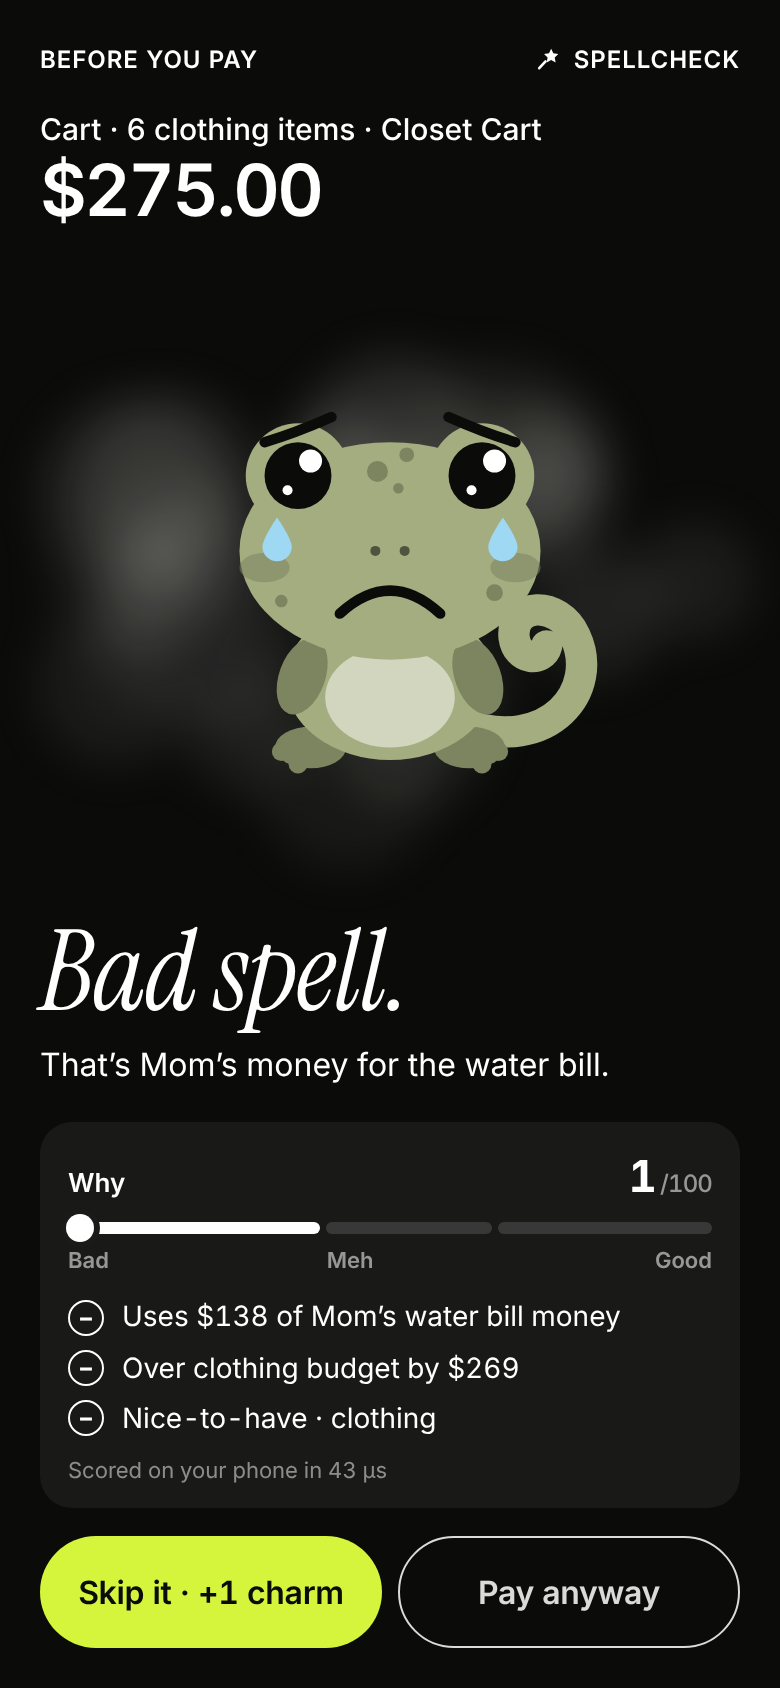
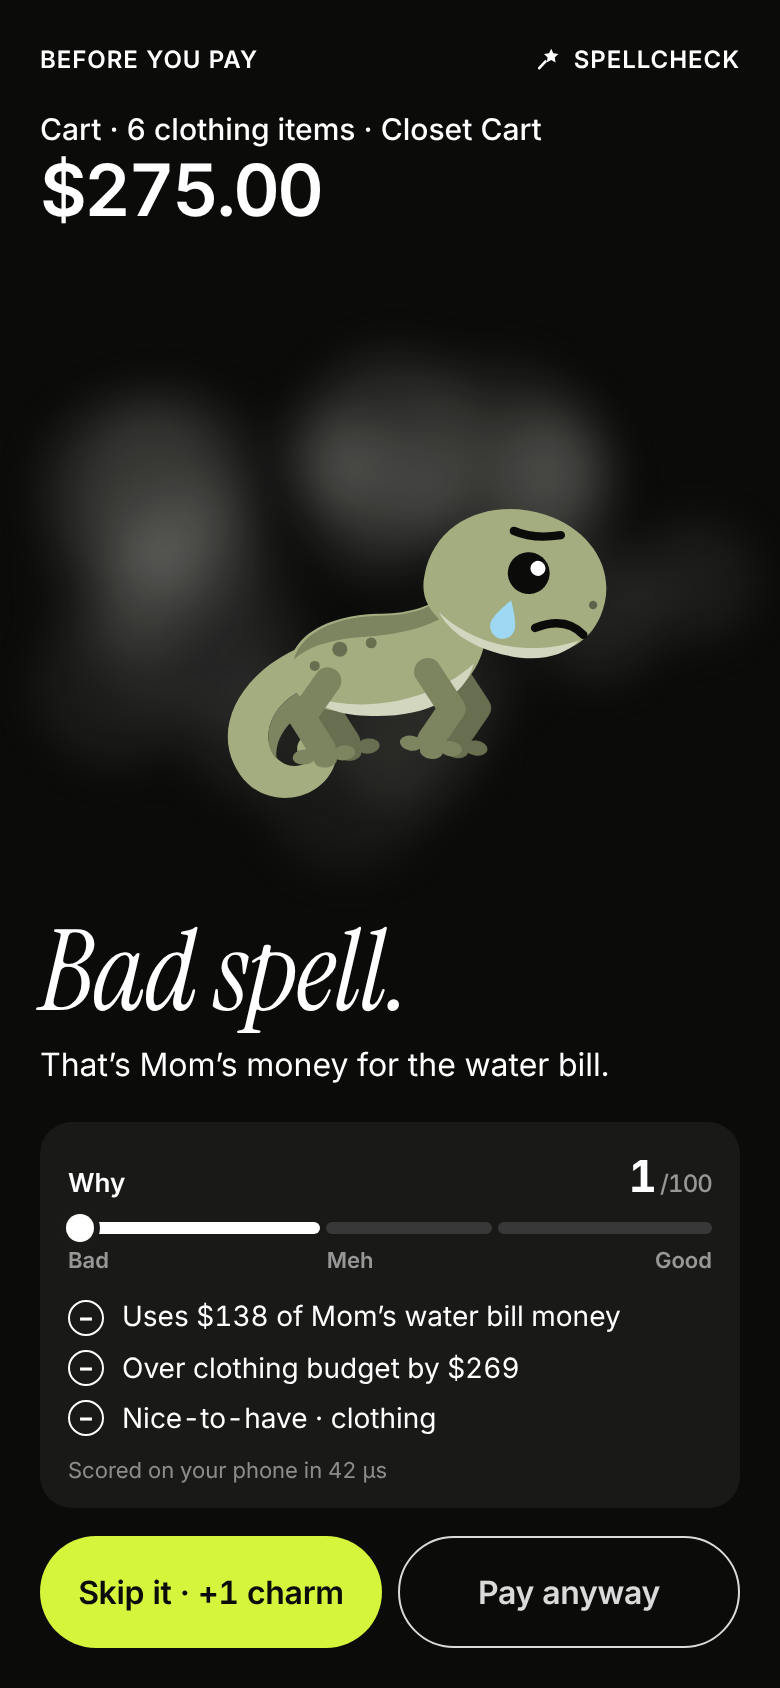
Spellbound: redraw Remy in a flat, side-on style
Remy is now one clean side-on silhouette built from flat planes of a single
lime (base, shade, deep shade, light) with a tiny face. Poses are baked into
SVG transforms per mood: standing (happy, meh), a leap with a fading
three-band streak (joy) and a wilted slump with a dropped head (sad, cry).
Adds mockups/remy-moods.png and updates the board, screens and the Figma
Make prompt.

Claude-Session: https://claude.ai/code/session_01PqrfActJswGG3E9NfEGjAG

Changed region(s): [[0.2769, 0.2464, 0.8, 0.4929]]

diff --git a/spellbound/index.html b/spellbound/index.html
@@ -27,6 +27,7 @@
   --gk: #C8EE2A;
   --gk-dark: #9DC40F;
   --gk-belly: #EAFBA4;
+  --gk-deep: #86A80C;
   --r: 16px;
   --sat: env(safe-area-inset-top, 0px);
   --sab: env(safe-area-inset-bottom, 0px);
@@ -75,23 +76,16 @@ input { font: inherit; }
 .bar { height: 6px; border-radius: 99px; background: rgba(255,255,255,0.12); margin-top: 8px; overflow: hidden; }
 .bar > i { display: block; height: 100%; width: 50%; background: var(--lime); border-radius: 99px; transition: width .6s cubic-bezier(.2,.8,.2,1); }
 
-/* gecko moods */
-.gecko .part { transition: opacity .2s; }
-.gecko [data-show] { opacity: 0; }
-.gecko[data-mood="happy"] [data-show~="happy"],
-.gecko[data-mood="joy"] [data-show~="joy"],
-.gecko[data-mood="meh"] [data-show~="meh"],
-.gecko[data-mood="sad"] [data-show~="sad"],
-.gecko[data-mood="cry"] [data-show~="cry"] { opacity: 1; }
+/* gecko moods: poses are drawn by geckoParts(); CSS only adds motion */
 .gecko .bodyg { transform-origin: 110px 200px; }
 .gecko[data-mood="happy"] .bodyg { animation: breathe 3.2s ease-in-out infinite; }
 .gecko[data-mood="joy"] .bodyg { animation: hop .55s cubic-bezier(.3,.7,.4,1) 3; }
 .gecko[data-mood="meh"] .bodyg { animation: sway 3s ease-in-out infinite; }
 .gecko[data-mood="sad"] .bodyg, .gecko[data-mood="cry"] .bodyg { animation: droop 1.4s ease-out forwards; }
 .gecko[data-mood="cry"] .bodyg { animation: droop 1.4s ease-out forwards, shiver .12s linear 6; }
-.gecko .tail { transform-origin: 150px 176px; animation: wag 2.4s ease-in-out infinite; }
+.gecko .tail { transform-origin: 74px 150px; animation: wag 2.4s ease-in-out infinite; }
 .gecko[data-mood="joy"] .tail { animation-duration: .45s; }
-.gecko[data-mood="sad"] .tail, .gecko[data-mood="cry"] .tail { animation: none; transform: rotate(14deg); }
+.gecko[data-mood="sad"] .tail, .gecko[data-mood="cry"] .tail { animation: none; }
 .gecko .blink { transform-origin: center; transform-box: fill-box; animation: blink 4.6s infinite; }
 .gecko .tear { animation: tear 1.3s ease-in infinite; }
 @keyframes breathe { 0%,100% { transform: scale(1,1); } 50% { transform: scale(1.02,.98); } }
@@ -405,60 +399,67 @@ input { font: inherit; }
 'use strict';
 
 /* ---------- gecko ---------- */
-const GECKO = `
-<svg class="gecko" viewBox="0 0 220 220" data-mood="happy" aria-hidden="true">
-  <g class="bodyg">
-    <path class="tail" d="M146 182 C190 186 206 150 188 128 C176 113 154 120 160 136 C164 146 176 144 176 136" fill="none" stroke="var(--gk)" stroke-width="15" stroke-linecap="round"/>
-    <ellipse cx="72" cy="192" rx="17" ry="10" fill="var(--gk-dark)"/>
-    <ellipse cx="148" cy="192" rx="17" ry="10" fill="var(--gk-dark)"/>
-    <circle cx="58" cy="194" r="4.5" fill="var(--gk-dark)"/><circle cx="66" cy="200" r="4.5" fill="var(--gk-dark)"/>
-    <circle cx="162" cy="194" r="4.5" fill="var(--gk-dark)"/><circle cx="154" cy="200" r="4.5" fill="var(--gk-dark)"/>
-    <ellipse cx="110" cy="160" rx="50" ry="38" fill="var(--gk)"/>
-    <ellipse cx="110" cy="168" rx="31" ry="24" fill="var(--gk-belly)"/>
-    <ellipse cx="68" cy="158" rx="11" ry="19" transform="rotate(20 68 158)" fill="var(--gk-dark)"/>
-    <ellipse cx="152" cy="158" rx="11" ry="19" transform="rotate(-20 152 158)" fill="var(--gk-dark)"/>
-    <circle cx="66" cy="62" r="25" fill="var(--gk)"/>
-    <circle cx="154" cy="62" r="25" fill="var(--gk)"/>
-    <ellipse cx="110" cy="98" rx="72" ry="52" fill="var(--gk)"/>
-    <circle cx="104" cy="60" r="5" fill="var(--gk-dark)"/><circle cx="118" cy="52" r="3.5" fill="var(--gk-dark)"/><circle cx="114" cy="68" r="2.5" fill="var(--gk-dark)"/>
-    <circle cx="160" cy="118" r="4" fill="var(--gk-dark)"/><circle cx="58" cy="122" r="3" fill="var(--gk-dark)"/>
-    <circle cx="103" cy="98" r="2.4" fill="#0B0B0A" opacity=".55"/><circle cx="117" cy="98" r="2.4" fill="#0B0B0A" opacity=".55"/>
-    <ellipse cx="50" cy="106" rx="12" ry="7" fill="var(--gk-dark)" opacity=".55"/>
-    <ellipse cx="170" cy="106" rx="12" ry="7" fill="var(--gk-dark)" opacity=".55"/>
-
-    <!-- open eyes -->
-    <g class="part" data-show="happy meh sad cry">
-      <g class="blink"><circle cx="66" cy="62" r="16" fill="#0B0B0A"/><circle cx="72" cy="55" r="5.5" fill="#fff"/><circle cx="61" cy="69" r="2.4" fill="#fff"/></g>
-      <g class="blink"><circle cx="154" cy="62" r="16" fill="#0B0B0A"/><circle cx="160" cy="55" r="5.5" fill="#fff"/><circle cx="149" cy="69" r="2.4" fill="#fff"/></g>
+/* ---------- Remy ---------- */
+// Remy, side-on, in flat planes of one colour (base, shade, deep shade, light belly) with no outlines.
+// Poses are baked into transform attributes so they survive SVG export; CSS only animates outer groups.
+function geckoParts(m) {
+  const sad = m === 'sad' || m === 'cry', joy = m === 'joy';
+  const rig = joy ? 'translate(6 -26) rotate(-24 110 140)' : sad ? 'translate(0 8)' : '';
+  const head = joy ? 'rotate(-6 136 118)' : sad ? 'rotate(18 136 118)' : m === 'meh' ? 'translate(-3 9) rotate(5 136 118)' : 'translate(-3 9)';
+  const tail = joy ? 'rotate(26 70 148)' : sad ? 'rotate(-26 70 148)' : '';
+  const legs = joy ? { fb: 'rotate(58 82 150)', ff: 'rotate(-62 130 148)' } : sad ? { fb: 'rotate(-6 82 150)', ff: 'rotate(8 130 148)' } : { fb: '', ff: '' };
+  // a bent gecko leg with three splayed toes; dir 1 = elbow forward, -1 = knee back
+  const leg = (x, y, dir, col) => {
+    const ex = x + 14 * dir, fx = x + 6 * dir;
+    return `<path d="M${x} ${y} L${ex} ${y + 16} L${fx} ${y + 32}" fill="none" stroke="var(${col})" stroke-width="13" stroke-linecap="round" stroke-linejoin="round"/>
+      <g fill="var(${col})"><ellipse cx="${fx - 9}" cy="${y + 35}" rx="5.5" ry="3.6"/><ellipse cx="${fx + 1}" cy="${y + 37.5}" rx="5.5" ry="3.6"/><ellipse cx="${fx + 10}" cy="${y + 35}" rx="5.5" ry="3.6"/></g>`;
+  };
+  const eye = joy
+    ? `<path d="M160 90 Q169 79 178 90" fill="none" stroke="#0B0B0A" stroke-width="5" stroke-linecap="round"/>`
+    : `<g class="blink"><circle cx="169" cy="89" r="10" fill="#0B0B0A"/><circle cx="172.5" cy="85.5" r="3.6" fill="#fff"/></g>`
+      + (m === 'meh' ? `<path d="M157 89 A12 12 0 0 1 181 89 Z" fill="var(--gk)"/><path d="M157.5 89 H180.5" stroke="#0B0B0A" stroke-width="4" stroke-linecap="round"/>` : '')
+      + (sad ? `<path d="M156 72 Q166 73 178 67" fill="none" stroke="#0B0B0A" stroke-width="4" stroke-linecap="round"/>` : '');
+  const mouth = joy
+    ? `<path d="M174 106 Q192 114 204 100 Q198 124 178 114 Z" fill="#0B0B0A"/><path d="M183 114 Q192 113 197 108 Q194 118 186 117 Z" fill="#F2A7A0"/>`
+    : m === 'happy' ? `<path d="M177 108 Q192 113 203 101" fill="none" stroke="#0B0B0A" stroke-width="4" stroke-linecap="round"/>`
+    : m === 'meh' ? `<path d="M180 109 L202 106" fill="none" stroke="#0B0B0A" stroke-width="4" stroke-linecap="round"/>`
+    : `<path d="M180 113 Q192 103 203 109" fill="none" stroke="#0B0B0A" stroke-width="4" stroke-linecap="round"/>`;
+  const tear = m === 'cry' ? `<path class="tear" d="M165 104 C165 104 159 113 159 117 A6 6 0 0 0 171 117 C171 113 165 104 165 104 Z" fill="#9FD8F2"/>` : '';
+  let trail = '';
+  if (joy) {
+    // three flat bands along the leap, fading out behind
+    const d = [-1, 0], n = [0, 1], c = [96, 145], L = 150, w = 12;
+    const cols = ['#FFFFFF', 'var(--gk-dark)', '#0B0B0A'];
+    trail = cols.map((col, i) => {
+      const k = (i - 1) * w, p = (a, b) => `${(c[0] + n[0] * (k + a) + d[0] * b).toFixed(1)} ${(c[1] + n[1] * (k + a) + d[1] * b).toFixed(1)}`;
+      return `<linearGradient id="tr${i}" gradientUnits="userSpaceOnUse" x1="${c[0]}" y1="${c[1]}" x2="${(c[0] + d[0] * L).toFixed(0)}" y2="${(c[1] + d[1] * L).toFixed(0)}"><stop offset="0" stop-color="${col}" stop-opacity="${i === 2 ? .8 : 1}"/><stop offset="1" stop-color="${col}" stop-opacity="0"/></linearGradient>
+        <path d="M${p(-w / 2, 0)} L${p(w / 2, 0)} L${p(w / 2, L)} L${p(-w / 2, L)} Z" fill="url(#tr${i})"/>`;
+    }).join('');
+  }
+  return `
+  <g class="bodyg"><g transform="${rig}">${trail}
+    <g transform="${tail}"><g class="tail">
+      <path d="M74 136 C42 134 16 152 20 178 C23 198 46 206 60 196 C70 189 68 175 57 175 C49 175 47 184 52 187 C41 188 36 177 40 168 C47 154 66 152 80 158 Z" fill="var(--gk)"/>
+      <path d="M80 158 C66 152 47 154 40 168 C38 172 38 176 39 179 C44 166 60 162 78 166 Z" fill="var(--gk-dark)"/>
+    </g></g>
+    <g transform="${legs.fb}">${leg(92, 150, -1, '--gk-deep')}</g>
+    <g transform="${legs.ff}">${leg(140, 146, 1, '--gk-deep')}</g>
+    <path d="M62 150 C60 130 82 120 106 120 C120 120 130 116 138 110 L156 126 C156 152 134 168 104 168 C80 168 64 164 62 150 Z" fill="var(--gk)"/>
+    <path d="M64 142 C68 128 86 121 106 121 C120 121 130 117 138 111 L144 116 C132 126 116 130 98 131 C82 132 70 136 64 142 Z" fill="var(--gk-dark)"/>
+    <path d="M74 160 C94 167 128 164 150 144 C146 160 128 169 104 169 C88 169 78 166 74 160 Z" fill="var(--gk-belly)"/>
+    <circle cx="86" cy="137" r="3.6" fill="var(--gk-deep)"/><circle cx="101" cy="134" r="2.6" fill="var(--gk-deep)"/><circle cx="74" cy="145" r="2.4" fill="var(--gk-deep)"/>
+    <g transform="${legs.fb}">${leg(80, 152, -1, '--gk-dark')}</g>
+    <g transform="${legs.ff}">${leg(128, 148, 1, '--gk-dark')}</g>
+    <g transform="${head}">
+      <path d="M122 106 C118 78 142 60 168 60 C192 60 210 76 208 98 C206 118 188 128 164 128 C140 128 124 122 122 106 Z" fill="var(--gk)"/>
+      <path d="M134 120 C150 128 178 130 202 112 C196 124 182 130 164 130 C150 130 140 126 134 120 Z" fill="var(--gk-belly)"/>
+      <circle cx="169" cy="89" r="15" fill="var(--gk)"/>
+      ${eye}${mouth}${tear}
+      <circle cx="203" cy="94" r="2" fill="#0B0B0A" opacity=".45"/>
     </g>
-    <!-- joy eyes ^ ^ -->
-    <g class="part" data-show="joy" fill="none" stroke="#0B0B0A" stroke-width="6" stroke-linecap="round">
-      <path d="M52 68 Q66 48 80 68"/><path d="M140 68 Q154 48 168 68"/>
-    </g>
-    <!-- half lids for meh -->
-    <g class="part" data-show="meh">
-      <path d="M48 62 A18 18 0 0 1 84 62 Z" fill="var(--gk)"/><path d="M136 62 A18 18 0 0 1 172 62 Z" fill="var(--gk)"/>
-      <path d="M48 62 H84 M136 62 H172" stroke="#0B0B0A" stroke-width="4" stroke-linecap="round"/>
-    </g>
-    <!-- worried brows -->
-    <g class="part" data-show="sad cry" fill="none" stroke="#0B0B0A" stroke-width="5" stroke-linecap="round">
-      <path d="M50 46 Q64 42 82 34"/><path d="M170 46 Q156 42 138 34"/>
-    </g>
-    <!-- mouths -->
-    <path class="part" data-show="happy" d="M84 112 Q110 132 136 112" fill="none" stroke="#0B0B0A" stroke-width="5" stroke-linecap="round"/>
-    <g class="part" data-show="joy">
-      <path d="M80 108 Q110 150 140 108 Z" fill="#0B0B0A" stroke="#0B0B0A" stroke-width="4" stroke-linejoin="round"/>
-      <path d="M98 128 Q110 118 122 128 Q118 138 110 138 Q102 138 98 128 Z" fill="#F2A7A0"/>
-    </g>
-    <path class="part" data-show="meh" d="M92 120 Q104 116 128 122" fill="none" stroke="#0B0B0A" stroke-width="5" stroke-linecap="round"/>
-    <path class="part" data-show="sad cry" d="M86 128 Q110 106 134 128" fill="none" stroke="#0B0B0A" stroke-width="5" stroke-linecap="round"/>
-    <!-- tears -->
-    <g class="part" data-show="cry">
-      <path class="tear" d="M56 82 C56 82 49 92 49 96 A7 7 0 0 0 63 96 C63 92 56 82 56 82 Z" fill="#9FD8F2"/>
-      <path class="tear" style="animation-delay:.6s" d="M164 82 C164 82 157 92 157 96 A7 7 0 0 0 171 96 C171 92 164 82 164 82 Z" fill="#9FD8F2"/>
-    </g>
-  </g>
-</svg>`;
+  </g></g>`;
+}
+const GECKO = `<svg class="gecko" viewBox="0 0 220 220" data-mood="" aria-hidden="true"></svg>`;
 
 const petSlot = document.getElementById('petSlot');
 petSlot.innerHTML = GECKO;
@@ -779,8 +780,9 @@ function geckoColour(v) {
   root.setProperty('--gk', mix([200, 238, 42], [158, 168, 118], t));
   root.setProperty('--gk-dark', mix([157, 196, 15], [120, 128, 92], t));
   root.setProperty('--gk-belly', mix([234, 251, 164], [206, 210, 186], t));
+  root.setProperty('--gk-deep', mix([134, 168, 12], [104, 111, 80], t));
 }
-function setMood(el, m) { el.dataset.mood = ''; void el.getBoundingClientRect(); el.dataset.mood = m; }
+function setMood(el, m) { el.innerHTML = geckoParts(m); el.dataset.mood = ''; void el.getBoundingClientRect(); el.dataset.mood = m; }
 
 let showAllBudgets = false;
 function render() {
@@ -976,7 +978,7 @@ function verdict(p, m) {
     <div class="v-top"><span>${before ? 'Before you pay' : 'Just paid'}</span><span><svg width="13" height="13" viewBox="0 0 24 24" fill="none"><path d="M14 2.5l2 4.2 4.6.7-3.3 3.2.8 4.6-4.1-2.2-4.1 2.2.8-4.6L7.4 7.4l4.6-.7z" fill="currentColor"/><path d="M8.8 14.2L3 20.5" stroke="currentColor" stroke-width="2.4" stroke-linecap="round"/></svg>Spellcheck</span></div>
     <div class="v-merchant">${p.item} · ${p.merchant}</div>
     <div class="v-amount">${money(p.amt)}</div>
-    <div class="v-pet" id="vPet" style="${v === 'bad' ? '--gk:#A3AD80;--gk-dark:#7C8460;--gk-belly:#D3D6BF' : ''}">${GECKO}</div>
+    <div class="v-pet" id="vPet" style="${v === 'bad' ? '--gk:#A3AD80;--gk-dark:#7C8460;--gk-deep:#686F50;--gk-belly:#D3D6BF' : ''}">${GECKO}</div>
     <div class="v-head serif"><i>${r.headline}</i></div>
     <div class="v-msg">${r.msg}</div>
     <div class="v-why">

diff --git a/spellbound/FIGMA.md b/spellbound/FIGMA.md
@@ -81,7 +81,7 @@ Build a mobile app prototype (iPhone, 390×844) called "Spellbound", a Ramp Fami
 
 STYLE: minimal fintech, in the style of Ramp. Off-white background #F4F3EE, white cards #FFFFFF with 1px hairlines #E4E2DA and 16px radius, near-black #0B0B0A text and primary buttons, ONE accent colour: lime #D4F53C. Inter for all UI (big numbers 600 weight, tight tracking, tabular figures); Instrument Serif Italic only for the verdict headline. Pill buttons 56px tall. Flat fills, no shadows, no gradients. Lots of white space. Whimsical but restrained.
 
-MASCOT: "Remy", a cute, round, flat-vector gecko: lime body #C8EE2A, darker lime spots and limbs #9DC40F, pale belly #EAFBA4, big black glossy eyes on top of the head, curled tail. Five moods: happy (smile), joy (^ ^ eyes, open grin, hopping), meh (half-closed eyes, flat mouth), sad (worried brows, frown, colour fades to dusty olive #A3AD80), cry (sad + blue tears).
+MASCOT: "Remy", a gecko drawn like Asana's celebration creatures: seen side-on facing right, one clean silhouette with NO outlines, built from flat planes of a single lime: base #C8EE2A, shade #9DC40F (the back and the near legs), deep shade #86A80C (the far legs, spots), light #EAFBA4 (belly and jaw). Big rounded head on a short rising neck, a long body, a tail that curls into a spiral, bent legs with three soft splayed toes, a few small spots on the back. The face is tiny and simple: one round black eye with a white glint, a single-line mouth. Moods: happy (standing, gentle smile), joy (leaping up and to the right, legs stretched, ^-shaped closed eye, open grin, with a three-band motion streak behind him in white, shade lime and ink that fades out — like the Asana trails), meh (standing, head tipped down slightly, half-closed eye, flat mouth), sad (head dropped, tail lowered, worried brow above the eye, frown, colours fade to dusty olive #A3AD80 / #7C8460 / #D3D6BF), cry (sad + one blue tear).
 
 SCREENS:
 1. Home: header "Spellbound" with a small star-wand logo and "Ramp Family". Black rounded card (24px radius) with Remy in the middle, name "Remy" in serif, "Lvl 3" lime pill, and three stats: Vibe 74 (lime progress bar), Charms 0, Streak 0. Below: white card "Available to spend $412.18" (cents in grey) and a row "Mom sent you money · For the water bill · set aside · $275" with a lime water-drop icon. One full-width black button "Cast before you pay" with a lime wand icon, and under it a quiet text link "Already paid? Log it". Budgets show the 4 most at-risk categories plus "Show all 9"; rows use thin line icons per category, not letters. Then "Budgets this month" rows (Groceries $188 of $400 left, Bills, Transport, Eating out, Delivery, Coffee & treats, Clothing, Fun) with thin progress bars, and "Recent spells" rows with a coloured dot for good/meh/bad.
